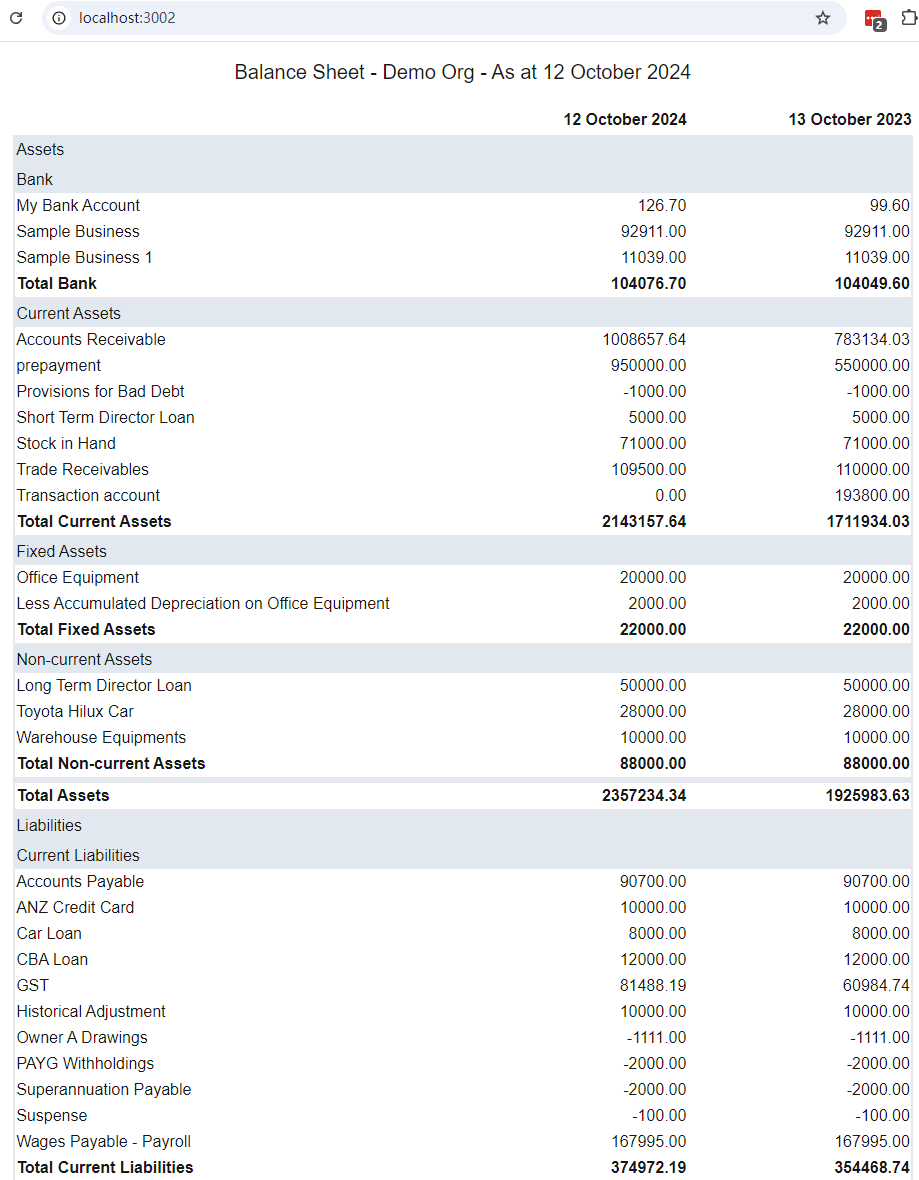
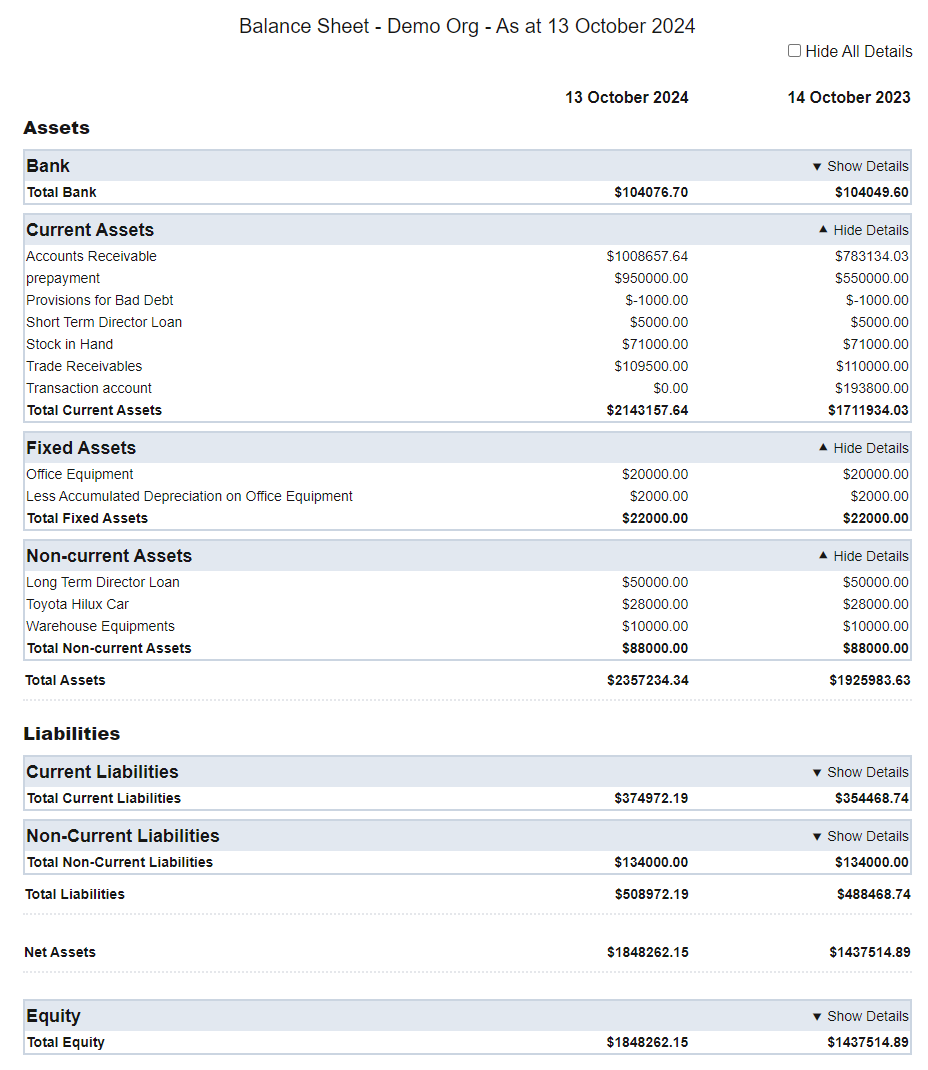
update readme

diff --git a/README.md b/README.md
@@ -44,19 +44,27 @@ const apiHost = "http://host.docker.internal:3000"; // "http://localhost:3000" "
 
 
 # Frontend (port 3002)
-## Implemented with React 18, Next.js 14, Typescript 5, Tailwind CSS
+## Implemented with React 18, Next.js 14, Typescript 5, Tailwind CSS, SWR
 It includes the following files in the src folder:
-* Component: BalanceSheet 
-* Component: BalanceSheetRow 
-* Component: BalanceSheetSession 
-* Hook: useFetchData 
+* Components: 
+    * BalanceSheet 
+    * BalanceSheetHeader
+    * BalanceSheetSession
+    * SessionMultiRowsWithTitle
+    * SessionOneRow
+    * SessionRow
+    * SessionTitle
+* Hook: 
+    * useFetchData
+    * useFetchDataWithSWR
 * types.ts and utilities.ts
 
 ## Unit Test using Jest and Testing-Library
 The testing coverage rate is 100%. It includes the following files in the tests folder:
 * BalanceSheet.test.tsx
-* BalanceSheetRow.test.tsx
 * BalanceSheetSession.test.tsx
+* SessionMultiRowsWithTitle.test.tsx
+* SessionRow.test.tsx
 * useFetchData.test.tsx
 * mockData.ts
 
@@ -74,3 +82,7 @@ The testing coverage rate is 100%. It includes the following files in the tests 
 ## Containerise the frontend in docker container
 Execute the command "docker build -t my-react-app ." and "docker run -p 3002:80 my-react-app" to run the frontend in docker container
 ![run frontend in docker container](screenshots/frontend-in-docker.png)
+
+## Note: 
+* The table is collapsible to hide/show details
+* Two ways in fetching data implemented in the hooks useFetchData and useFetchDataWithSWR
